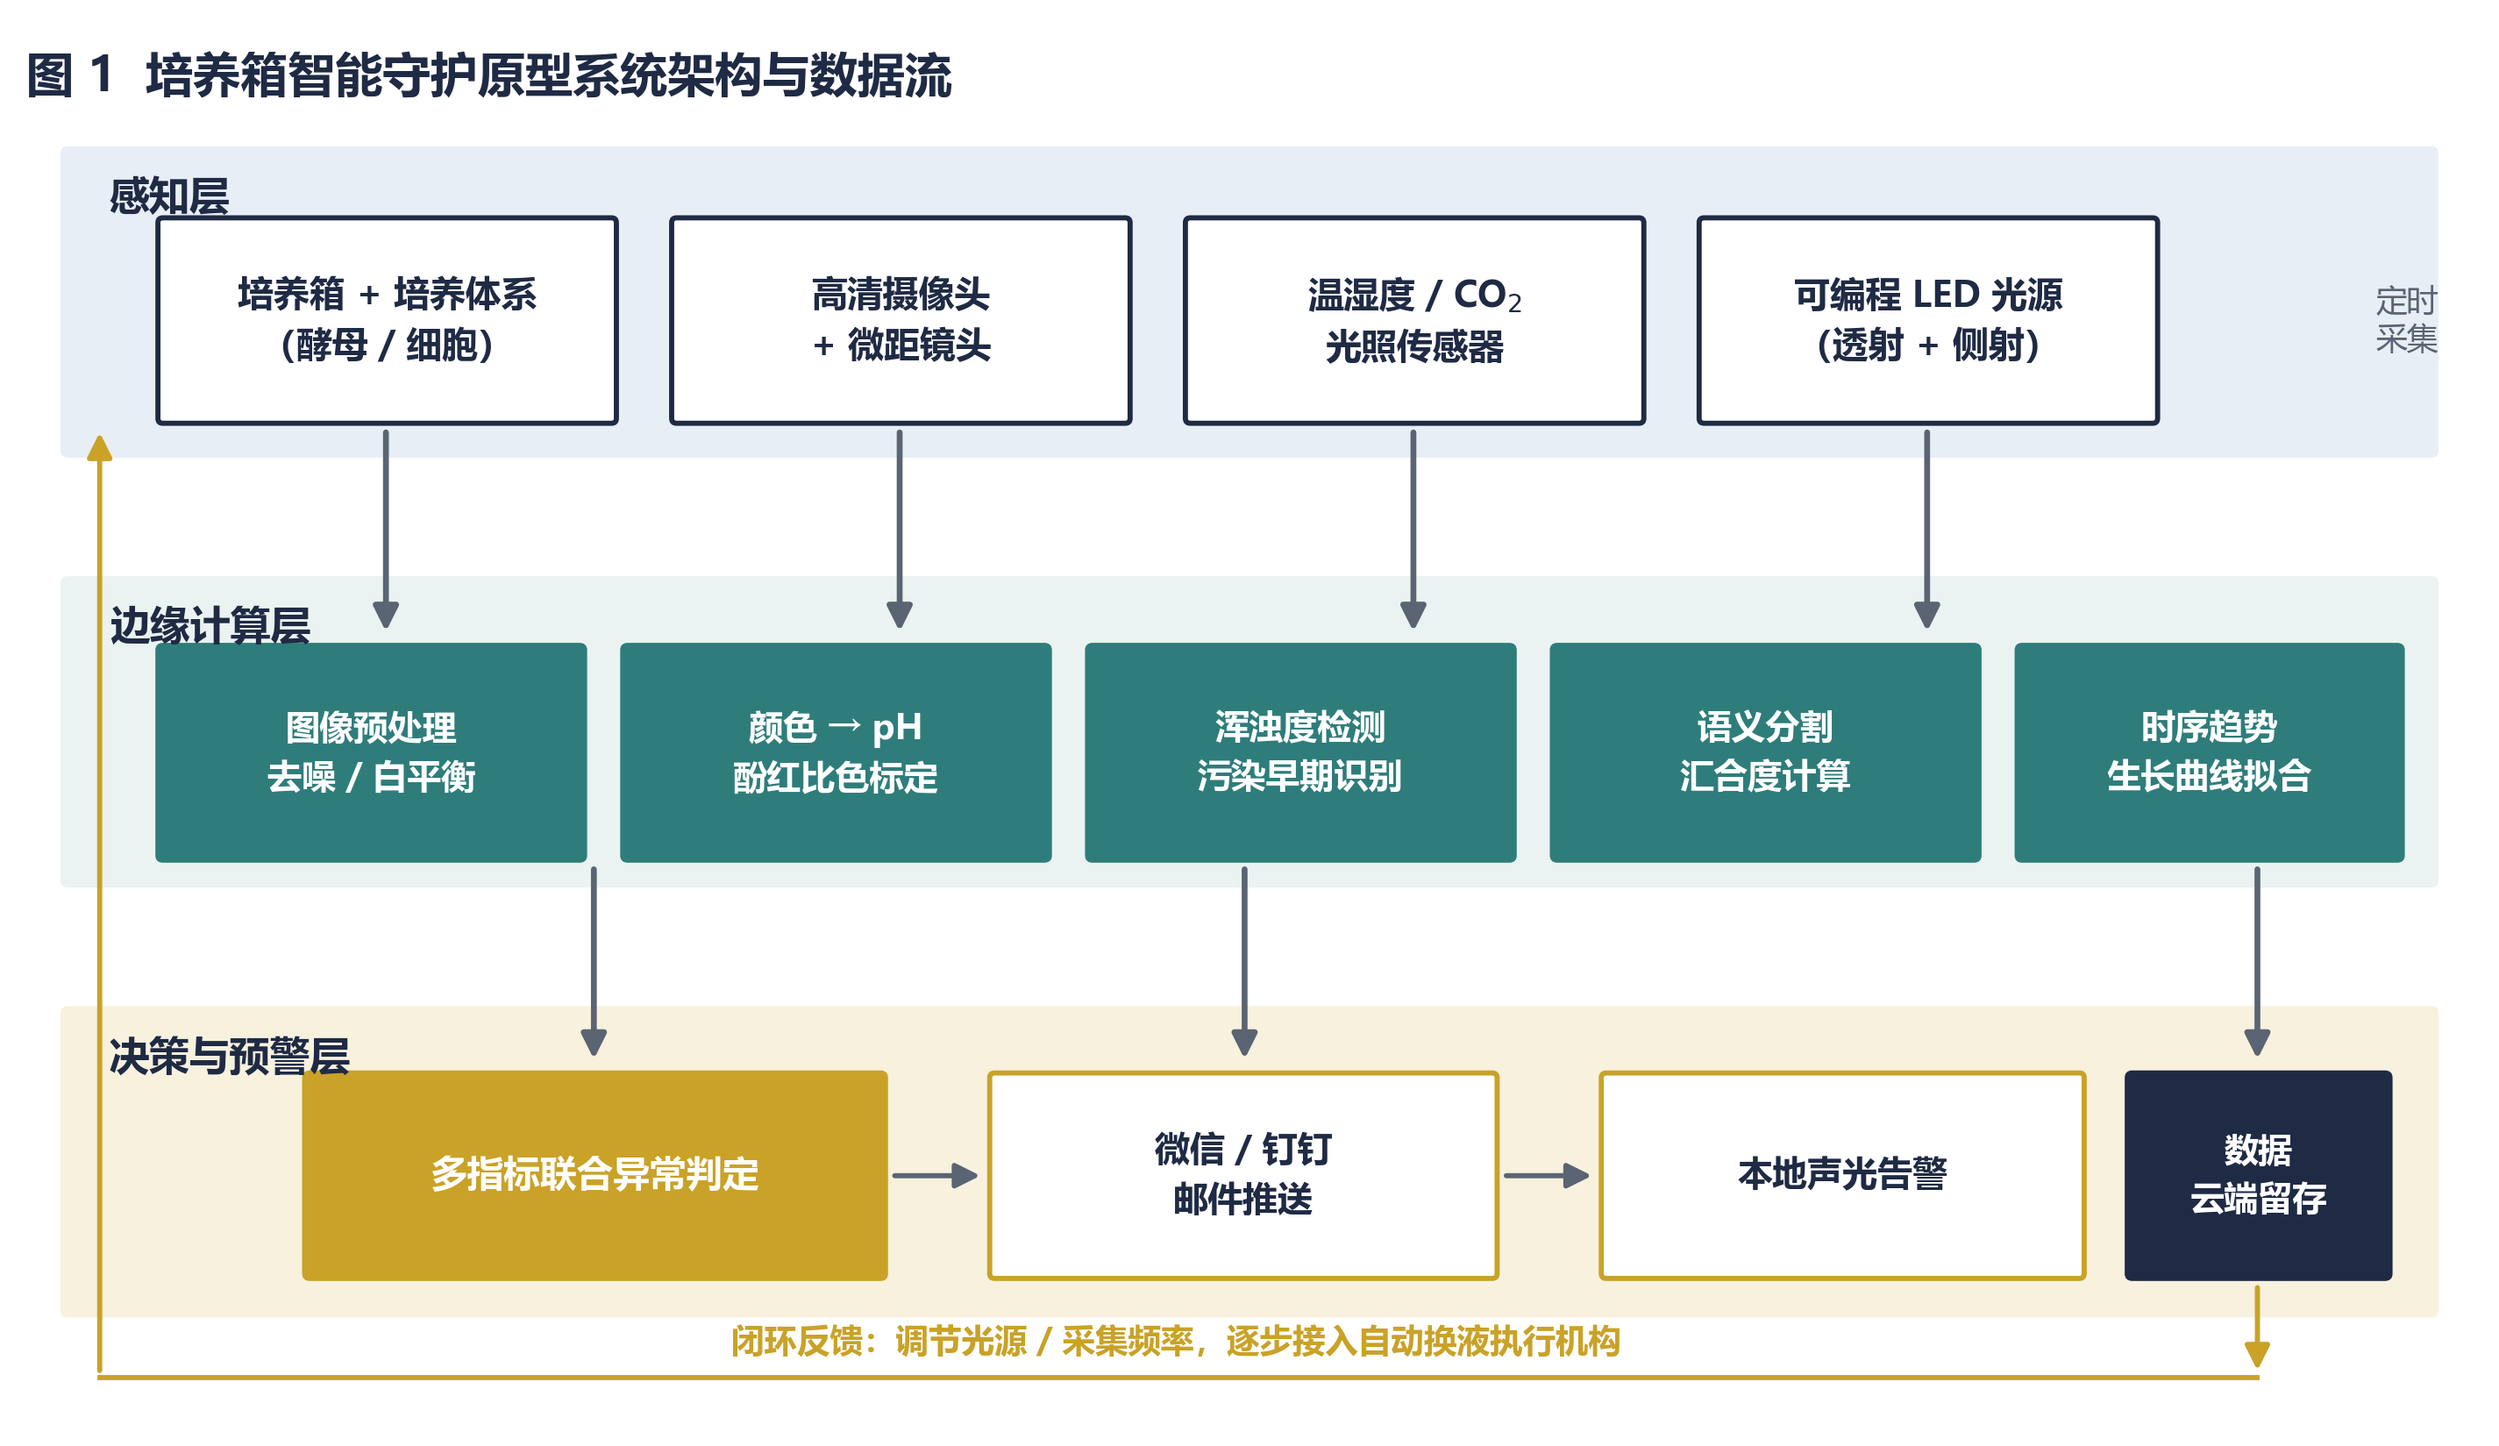
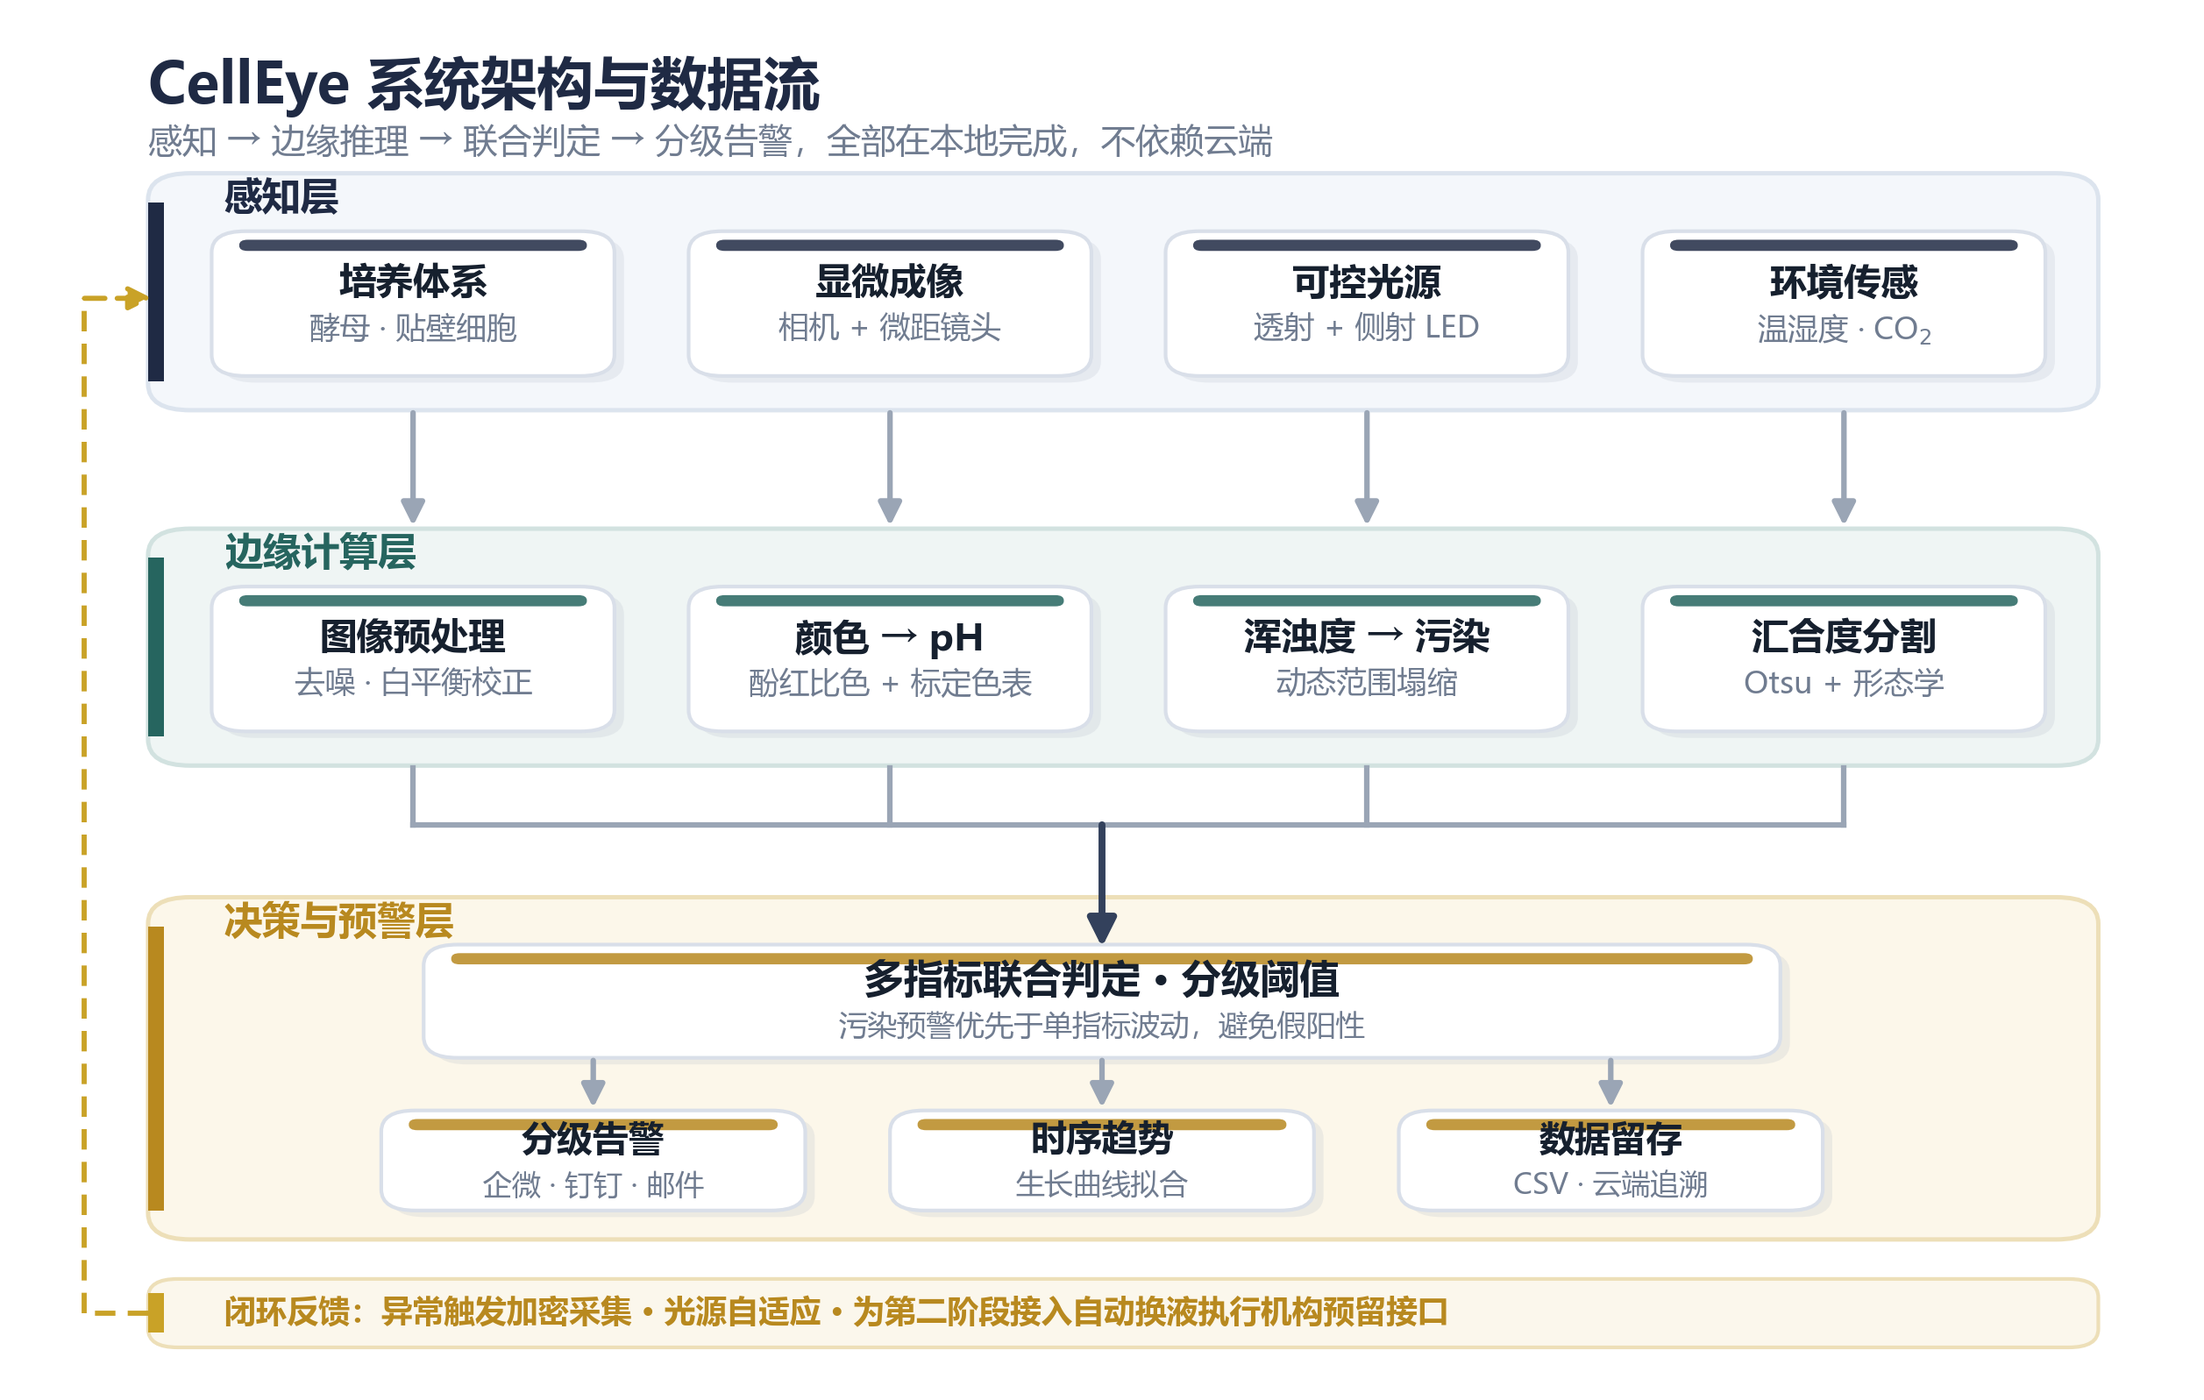
style: 重做配图，统一为藏蓝 + 香槟金
架构图与甘特图原先布局手写坐标，导致文字与箭头重叠、配色单调。
本次改为常量表驱动的几何布局，并加了两道保障：

- 卡片位置全部由列索引计算，不再手写 → 结构上杜绝错位
- 新增 check_text_overlaps()：渲染后两两求文字包围盒交集，
  有实质重叠直接报错。上一版正是靠肉眼验收才漏掉了小字压标题。

配色对齐用户 PPT 模板（藏蓝 #1F2A44 + 香槟金 #D4AF37）。
演示曲线图同步重做：横向网格、左侧标题、红色只留给污染曲线。

diff --git a/scripts/demo_mock.py b/scripts/demo_mock.py
@@ -52,8 +52,10 @@ def run_scenario(name: str):
 
 
 def main() -> int:
-    fig, axes = plt.subplots(3, 1, figsize=(11, 9), dpi=150, sharex=True)
-    colors = ["#1F2A44", "#2E7D7B", "#C0392B", "#C9A227"]
+    fig, axes = plt.subplots(3, 1, figsize=(10.6, 8.6), dpi=200, sharex=True)
+    # 藏蓝 + 香槟金为主，红只留给"真出事"的那条曲线
+    NAVY, TEAL, RED, GOLD = "#1F2A44", "#26655F", "#B23A2E", "#B8891F"
+    colors = [NAVY, TEAL, RED, GOLD]
 
     print("=" * 78)
     print("CellEye 端到端演示（合成图像，无硬件）")
@@ -70,9 +72,12 @@ def main() -> int:
         conf = [r.result.confluence for r in records]
         n_alert = sum(1 for r in records if r.result.level != "ok")
 
-        axes[0].plot(hours, conf, color=color, lw=1.8, label=label)
-        axes[1].plot(hours, turb, color=color, lw=1.8, label=label)
-        axes[2].plot(hours, ph, color=color, lw=1.8, label=label)
+        axes[0].plot(hours, conf, color=color, lw=2.0, label=label,
+                     solid_capstyle="round")
+        axes[1].plot(hours, turb, color=color, lw=2.0, label=label,
+                     solid_capstyle="round")
+        axes[2].plot(hours, ph, color=color, lw=2.0, label=label,
+                     solid_capstyle="round")
 
         last = lambda v: "  --  " if v[-1] is None else f"{v[-1]:.2f}"  # noqa: E731
         print(f"{label:<20}{last(ph):>8}{last(turb):>12}"
@@ -80,30 +85,39 @@ def main() -> int:
 
     print("-" * 78)
 
-    axes[0].set_ylabel("汇合度")
+    axes[0].set_ylabel("汇合度", fontsize=10.5, color=NAVY)
     axes[0].set_ylim(0, 1.05)
-    axes[0].axhline(0.85, ls="--", lw=1, color="#999", zorder=0)
-    axes[0].text(0.2, 0.87, "传代参考线 85%", fontsize=8, color="#666")
+    axes[0].axhline(0.85, ls=(0, (5, 3)), lw=1.1, color="#B9C1CE", zorder=0)
+    axes[0].text(5.9, 0.87, "传代参考线 85%", fontsize=8.6, color="#8B95A5",
+                 ha="right", va="top")
 
-    axes[1].set_ylabel("浑浊度（相对基线倍数）")
-    axes[1].axhline(1.30, ls="--", lw=1, color="#E08A2E", zorder=0)
-    axes[1].axhline(1.60, ls="--", lw=1, color="#C0392B", zorder=0)
-    axes[1].text(0.2, 1.62, "高等级告警 1.60×", fontsize=8, color="#C0392B")
-    axes[1].text(0.2, 1.32, "提醒 1.30×", fontsize=8, color="#E08A2E")
+    axes[1].set_ylabel("浑浊度（相对基线倍数）", fontsize=10.5, color=NAVY)
+    axes[1].set_ylim(0.7, 2.35)
+    axes[1].axhline(1.30, ls=(0, (5, 3)), lw=1.1, color="#D8B25E", zorder=0)
+    axes[1].axhline(1.60, ls=(0, (5, 3)), lw=1.1, color="#C97A6E", zorder=0)
+    axes[1].text(0.12, 1.63, "高等级告警 1.60×", fontsize=8.6, color="#B23A2E")
+    axes[1].text(0.12, 1.33, "提醒 1.30×", fontsize=8.6, color="#A8842E")
 
-    axes[2].set_ylabel("pH")
-    axes[2].axhspan(6.90, 7.50, color="#2E7D7B", alpha=0.08, zorder=0)
-    axes[2].text(0.2, 7.44, "正常区间 6.90–7.50", fontsize=8, color="#2E7D7B")
-    axes[2].set_xlabel("培养时间（小时）")
+    axes[2].set_ylabel("pH", fontsize=10.5, color=NAVY)
+    axes[2].axhspan(6.90, 7.50, color=TEAL, alpha=0.07, zorder=0)
+    axes[2].text(0.12, 7.42, "正常区间 6.90–7.50", fontsize=8.6, color=TEAL)
+    axes[2].set_xlabel("培养时间（小时）", fontsize=10.5, color=NAVY)
 
     for ax in axes:
-        ax.grid(alpha=0.25, lw=0.7)
+        ax.grid(axis="y", color="#EDF1F6", lw=0.9, zorder=0)
         ax.spines[["top", "right"]].set_visible(False)
+        ax.spines[["left", "bottom"]].set_color("#C7CFDB")
+        ax.tick_params(colors="#5A6472", labelsize=9.5, length=0)
 
-    axes[0].legend(loc="upper left", ncol=4, fontsize=9, frameon=False)
-    fig.suptitle("CellEye 合成情景演示：四个指标链路 24 小时走势",
-                 fontsize=13, fontweight="bold", color="#1F2A44", y=0.995)
-    fig.tight_layout(rect=(0, 0, 1, 0.98))
+    axes[0].legend(loc="upper left", ncol=4, fontsize=9.6, frameon=False,
+                   handlelength=1.6, columnspacing=1.6)
+    fig.suptitle("四种合成情景 · 24 小时指标走势", fontsize=15,
+                 fontweight="bold", color=NAVY, x=0.055, ha="left", y=0.985)
+    fig.text(0.055, 0.945,
+             "合成图像演示，不含真实实验数据。注意中图：只有「污染发生」的浑浊度冲到基线 2 倍，"
+             "其余三种始终平在 1.0 附近 —— 这正是告警要抓的东西。",
+             fontsize=9.2, color="#707C90", ha="left", va="top")
+    fig.tight_layout(rect=(0, 0, 1, 0.925))
 
     out = ROOT / "docs" / "figures"
     out.mkdir(parents=True, exist_ok=True)
